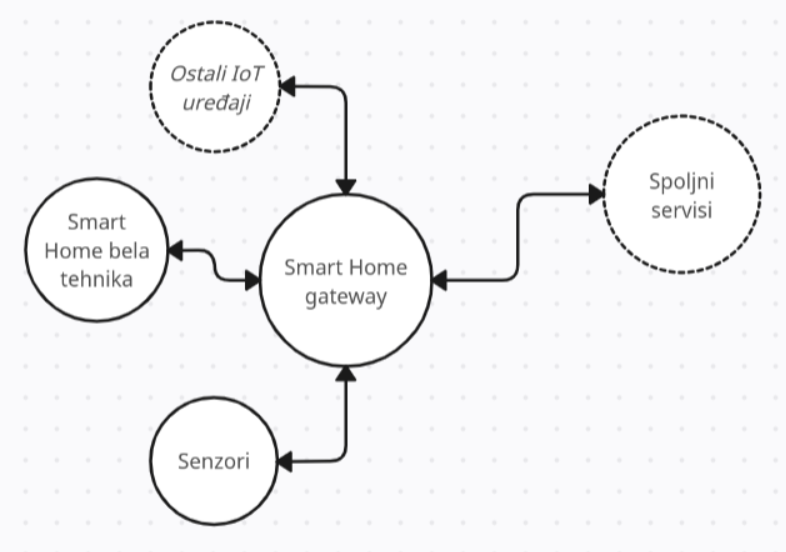
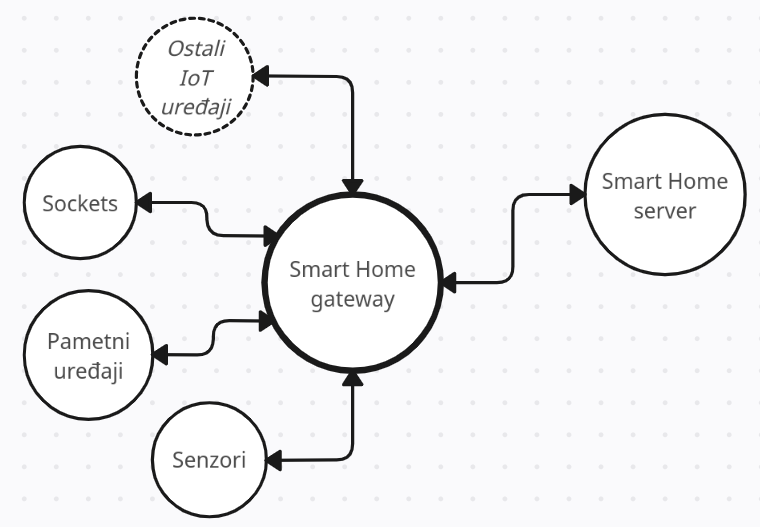
izmene i dopune predloga i dekompozicije

diff --git a/1-predlog-projekta/predlog.md b/1-predlog-projekta/predlog.md
@@ -3,22 +3,51 @@
 
 <br>
 
-### Opšta arhitektura Smart Home sistema
-Smart Home sistem se ne može posmatrati potpuno nezavisno, zbog neophodne interakcije sa korisnikom, koja se obavlja na standardan način, putem Interneta (upotreba eksterne aplikacije/interfejsa i servera).
+## Opšta arhitektura Smart Home sistema
+Generalno govoreći, gotovo svaki Smart Home sistem će se sastojati iz 3 celine:
+1. Server
+2. Klijentska aplikacija
+3. Smart Home 
+
+### Server
+Server je upravljačka jedinica cele strukture (ne interno Smart Home sistema). Preko servera se dobavljaju podaci i informacije o uređajima, izvršavaju udaljene (remote) naredbe i akcije, itd. Server aktivno komunicira sa klijentskom aplikacijom i samim Smart Home-om. Predstavlja most između korisnika i Smart Home uređaja.
+
+### Klijentska aplikacija
+Obezbeđuje platformu, odnosno interfejs krajnjem korisniku za upotrebu i monitoring Smart Home sistema. Od servera dobija monitoring podatke, a istom šalje upravljačke instrukcije za uređaje unutar sistema.
+
+### Smart Home
+Smart Home sistem predstavljaju dve celine: Home network i Gateway.
+
+Gateway je centralna jedinica Smart Home sistema
+
+Home network je sačinjen od čvorova, odnosno uređaja koji služe za automatizaciju, sigurnost i upravljanje potrošnjom. Može da koristi žičano ili bežično povezivanje.
+
+(Detaljnije u nastavku)
+
+[Design of Smart Home System Based on ZigBee Technology and R&D for Application: Lin Gao, Zhixin Wang, Jianlong Zhou, Chao Zhang]
+
+<br>
+
+Smart Home sistem se ne može posmatrati potpuno nezavisno, zbog neophodne interakcije sa korisnikom, odnosno serverom. U pitanju je standardna http(s)/websocket komunikacija (upotreba eksterne aplikacije/interfejsa i servera).
 
 ![Prikaz arhitekture na apstraktnom niou](slike/smart-home-opste.png)
 ![Prikaz arhitekture na apstraktnom niou 2](slike/smart-home-opste-2.png)
+
 <br>
+
 Ova dva dijagrama arhitekture Smart Home sistema će poslužiti kao početna tačka za dekompoziciju modula.
 
+[Design of Smart Home System Based on ZigBee Technology and R&D for Application: Lin Gao, Zhixin Wang, Jianlong Zhou, Chao Zhang]
+
 <br>
 
-### Home Gateway
-Preko gateway-a se razmenjuju podaci sa eksternom mrežom
-* jezgro smart home sistema
-* predstavlja system control center
-* zove se i protocol conversion gateway
-* **u suštini, omogućava remote control celog sistema**
+## Home Gateway
+Preko gateway-a se razmenjuju podaci sa eksternom mrežom Predstavlja jezgro smart home sistema (system control center).
+
+Često se naziva i protocol conversion gateway.
+
+**U suštini, gateway omogućava remote control celog sistema.**
+
 
 Gateway funkcije:
 * Sense Network Access (pristup mreži)
@@ -31,9 +60,28 @@ Gateway funkcije:
     * mora da se uskladi komunikacija sa čvorovima/senzorima/uređajima i njegovim standardima
     * zbog toga se i zove protocol conversion gateway
 
+[https://www.dusuniot.com/blog/what-are-smart-gateways-why-would-you-need-one/]
+
 <br>
 
-### Važni aspekti za posmatranje sigurnosti Smart Home sistema
+## Uređaji Home network-a
+Vrste uređaja:
+ * Smart sockets
+ * Smart appliances
+ * Sigurnosni uređaji i senzori
+
+Smart sockets su uređaji koji se instaliraju u utičnicu na koju se povezuje neki električni uređaj. Oni prate i regulišu rad povezanog uređaja, kao i potrošnju struje. Na zahtev, ili automatizovano, mogu isključivati i uključivati uređaje.
+
+Smart apliances su pametni uređaji poput pametnih kliva, frižidera, televizora, i slično.
+
+Sigurnosni uređaji predstavljaju kamere, pametne brave i njima slične uređaje. Dakle, zaduženi su za bezbednost doma.
+U ovu grupu se najčešće ubrajaju i senzori, iako oni sami po sebi ne moraju nužno biti vezani za sigurnost. To mogu biti senzori za dim, gas, temperaturu, itd.
+
+[Smart Home：Architecture, Technologies and Systems: Min Li, Wenbin Gub, Wei Chenc, Yeshen Hed, Yannian Wud, Yiying Zhange]
+
+<br>
+
+## Važni aspekti za posmatranje sigurnosti Smart Home sistema
 *(po savetu prof. Vidakovića)*
 1. Komunikacija od eksterne aplikacije ka gateway-u
     * svi standardni problemi obezbeđivanja mrežnog sistema, komunikacije, podataka, itd.
@@ -42,5 +90,9 @@ Gateway funkcije:
     * povezivanje i organizacija uređaja (wifi i njegovi problemi, mrežni pristup, itd.)
 
 ![Detaljni prikaz arhitekture](slike/smart-home-detaljnije.png)
+
 <br>
+
 Detaljniji prikaz arhitekture, koji će poslužiti za detaljniju dekompoziciju, sa fokusom na ključne sigurnosne mofule, odnosno tokove komunikacije/podataka.
+
+[Smart Home：Architecture, Technologies and Systems: Min Li, Wenbin Gub, Wei Chenc, Yeshen Hed, Yannian Wud, Yiying Zhange]

diff --git a/2-model-pretnji/dekompozicija-modula.md b/2-model-pretnji/dekompozicija-modula.md
@@ -1,32 +1,36 @@
 # Dekompozicija modula
 
+Dekompozicija modula je izvršina na osnovu izdvojene arhitekture Smart Home sistema (predlog.md).
+
 ### Na visokom nivou
 
 ![Dijagram 1](slike/dijagram-1.png)
 <br>
 Na najvišem nivou su izdvojeni sledeći moduli
 * Korisnička aplikacija - predstavlja interfejs preko kog korisnik Smart Home sistema stupa u kontakt sa sistemom, dobavlja informacije, upravlja sistemom, sprovodi komande, itd.
-* Smart Home server - modul koji direknto komunicira sa Smart Home sistemom, prosleđuje korisnikove zahteve, reguliše podatke, komunicira sa bazom, itd.
+* Smart Home server - modul koji direknto komunicira sa Smart Home sistemom, prosleđuje korisnikove zahteve, dobavlja podatke, komunicira sa bazom, itd.
 * Smart Home sistem - modul u kome se zapravo nalaze smart home komponente; spolja je "otkriven" preko smart home gateway-a
+
+<br>
 
 ### Dekompozicija Smart Home servera 
 
 ![Dijagram 2](slike/dijagram-2.png)
 <br>
+
 Smart Home server se u određenoj meri ne može detaljno dekomponovati, jer to zavisi od same arhitekture aplikacije koja je na serveru.
 Ona može biti monolitna, i kao takva sve komponente sadržati u sebi, može biti i servisno orijentisane ili mikroservisne arhitekture. Od toga će i zavisiti pristup prilikom modelovanja pretnji.
-Ono što jeste sigurno je sledeće:
-* Adminski portal - zaseban servis, ili deo u sistemu preko koga samo privilegovani (admin) korisnik unosi promene i ostvaruje pristup osetljivim komandama ili podacima
-* Korisnički podaci - osetljivi podaci koji se koriste za pristup sistemu (kredencijali, šifre, itd.)
-* Podaci sistema - Baza podataka koja čuva zbivanja, merenja i sve ostale (istorijske) podatke koji se dobavljaju uređajima unutar Smart Home sistema
 
+Ono što jeste sigurno je da će svaki Smart Home server da razmenjuje podatke između korisnika i gateway-a nekim protokolom za komunikaciju. Pored toga, imaće svoju bazu podataka, kao i sistem autentifikacije i autorizacije, kako bi samo pripadnici Smart Home sistema mogli da izvršavaju komande i imaju uvid u monitoring.
+
+<br>
 
 ### Dekompozicija Smart Home sistema
 ![Dijagram 3](slike/dijagram-3.png)
 <br>
+
 Unutar samog Smart Home sistema se izdvajaju dve bitne komponente:
-* Smart Home gateway - centralna jedinicat, srž sistema, zadužen za kontrolu i komunikaciju sa spoljašnjim okruženjem
-* Uređaji
-    * Senzori (merači pritiska, temperature, itd.)
-    * Smart (bela) tehnika (klime, frižideri, itd.)
-    * Ostali tipovi IoT uređaja
+* Smart Home gateway - centralna jedinica, srž sistema, zadužen za kontrolu i komunikaciju sa spoljašnjim okruženjem
+* Uređaji - smart sockets, senzori, pametni uređaji...
+
+(terminologija je detaljnije definisana u predlogu projekta)
